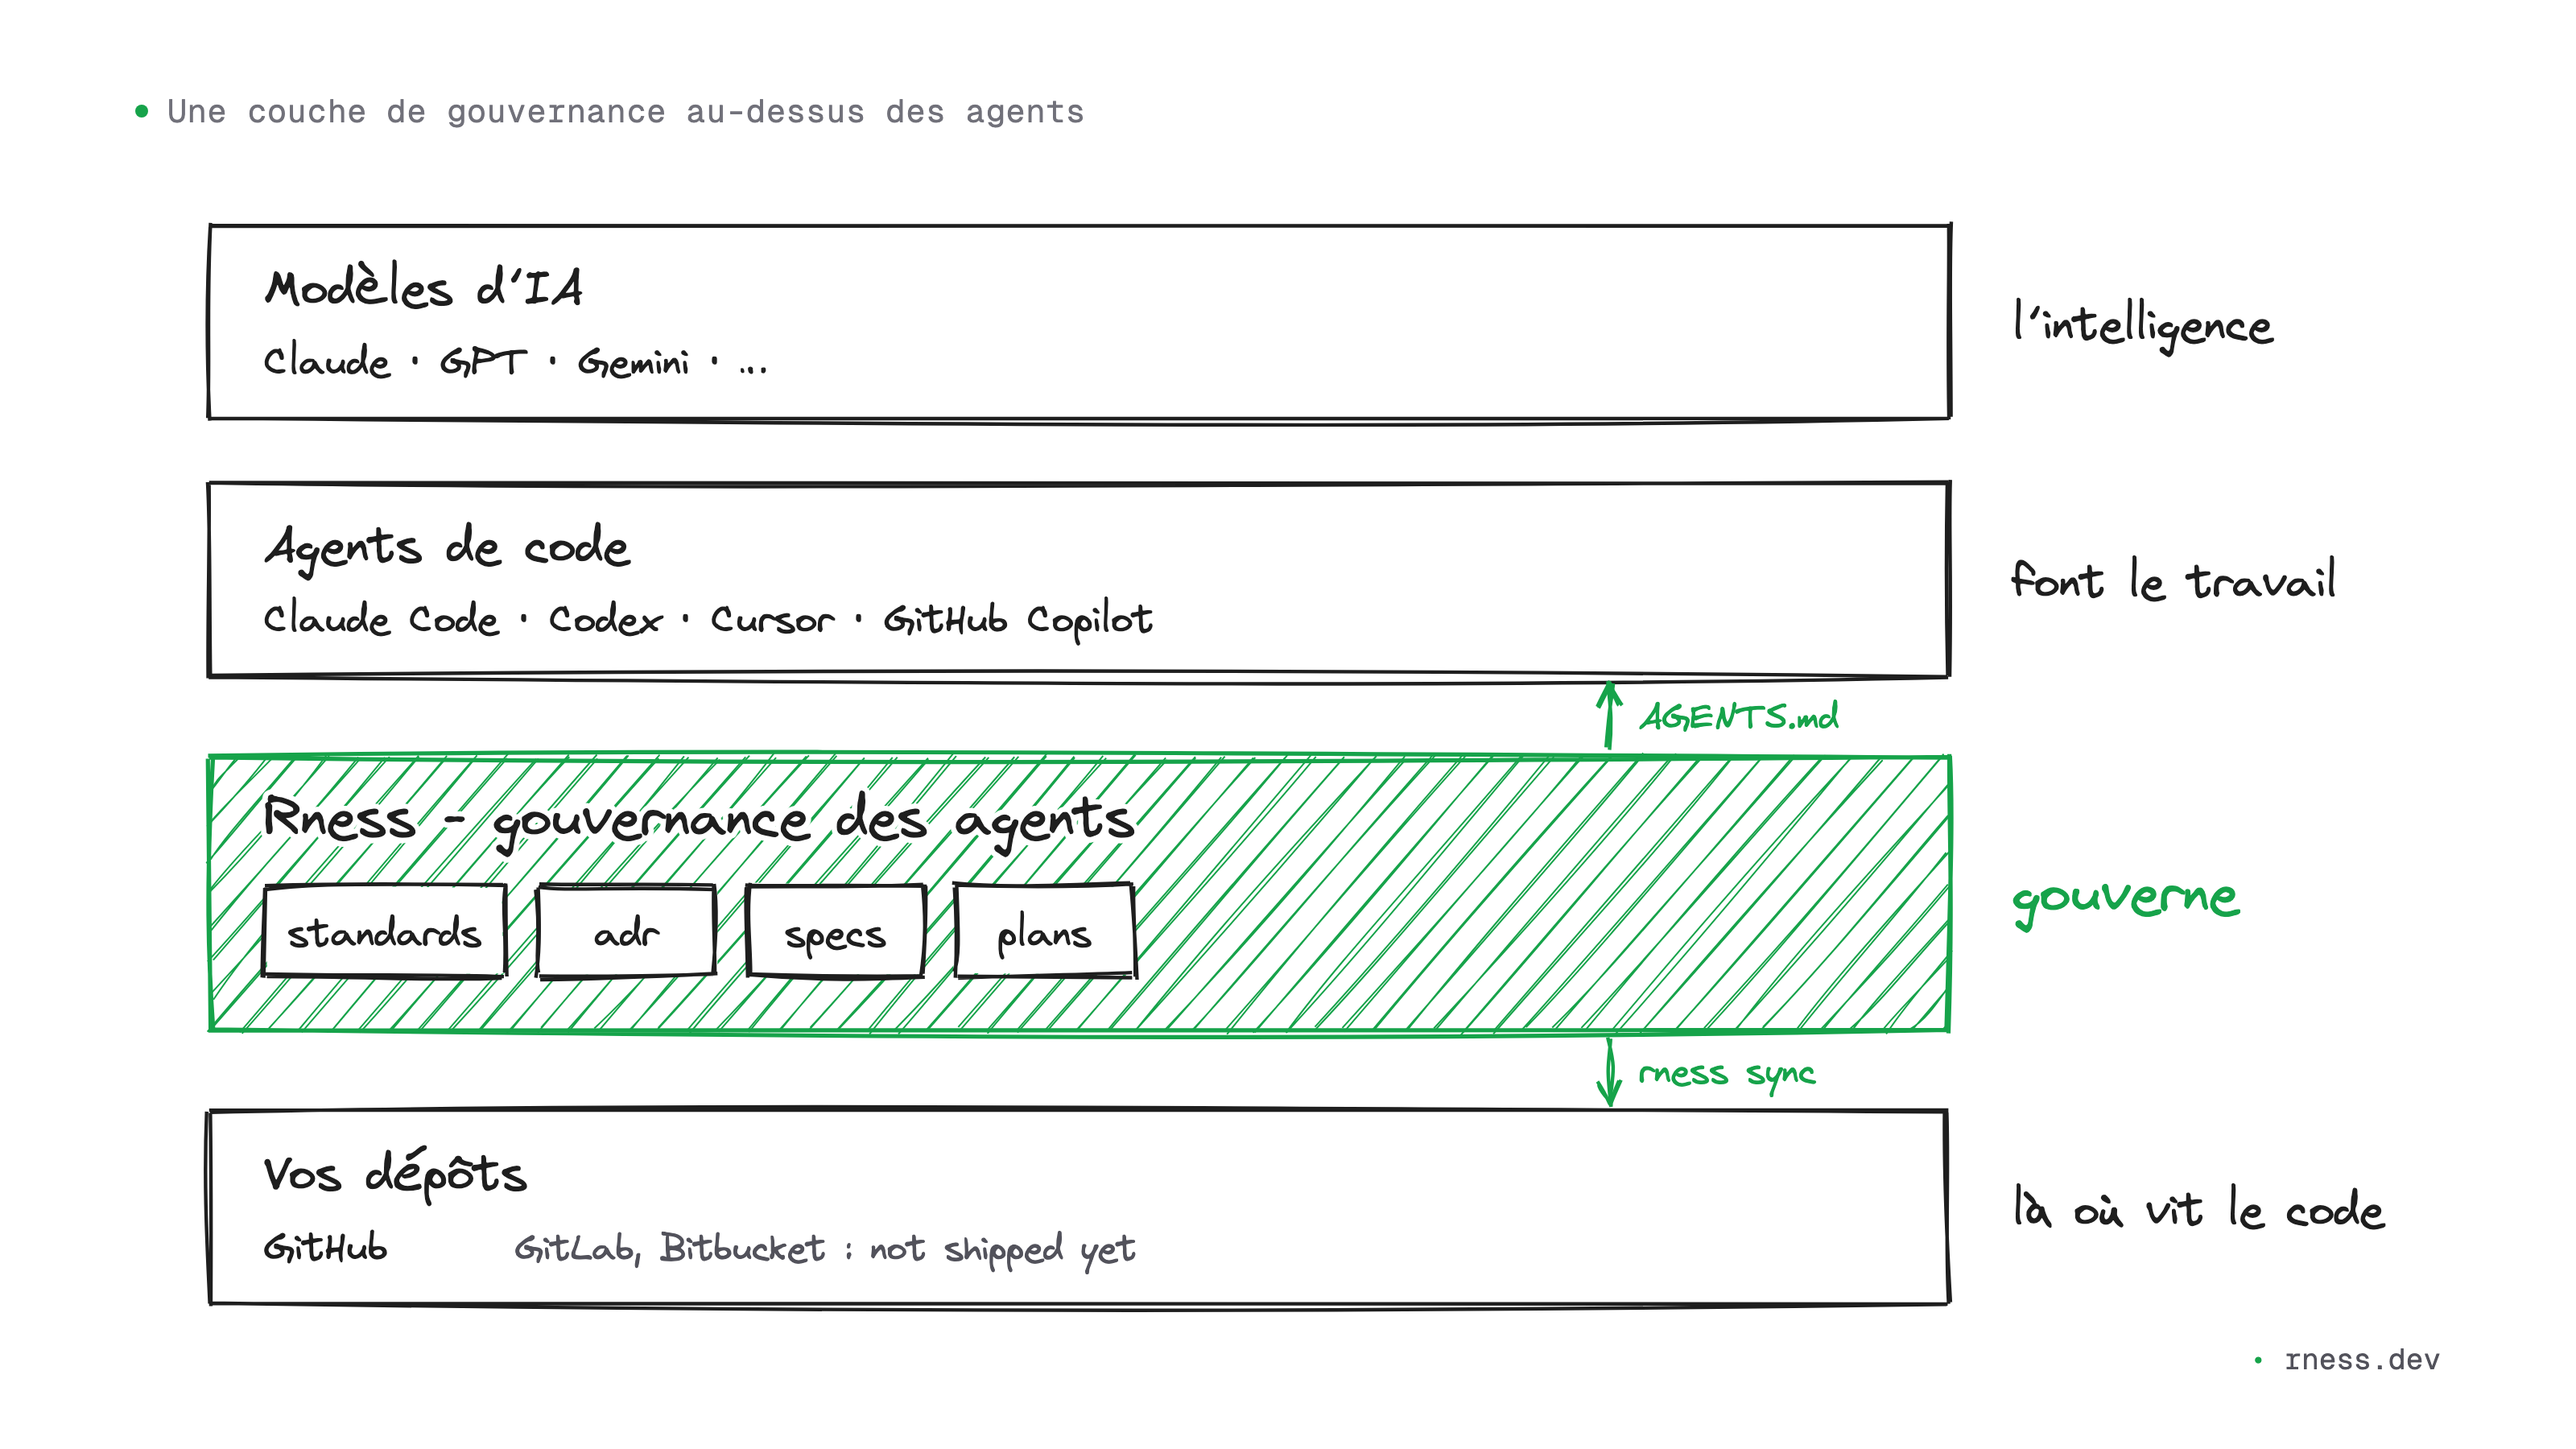
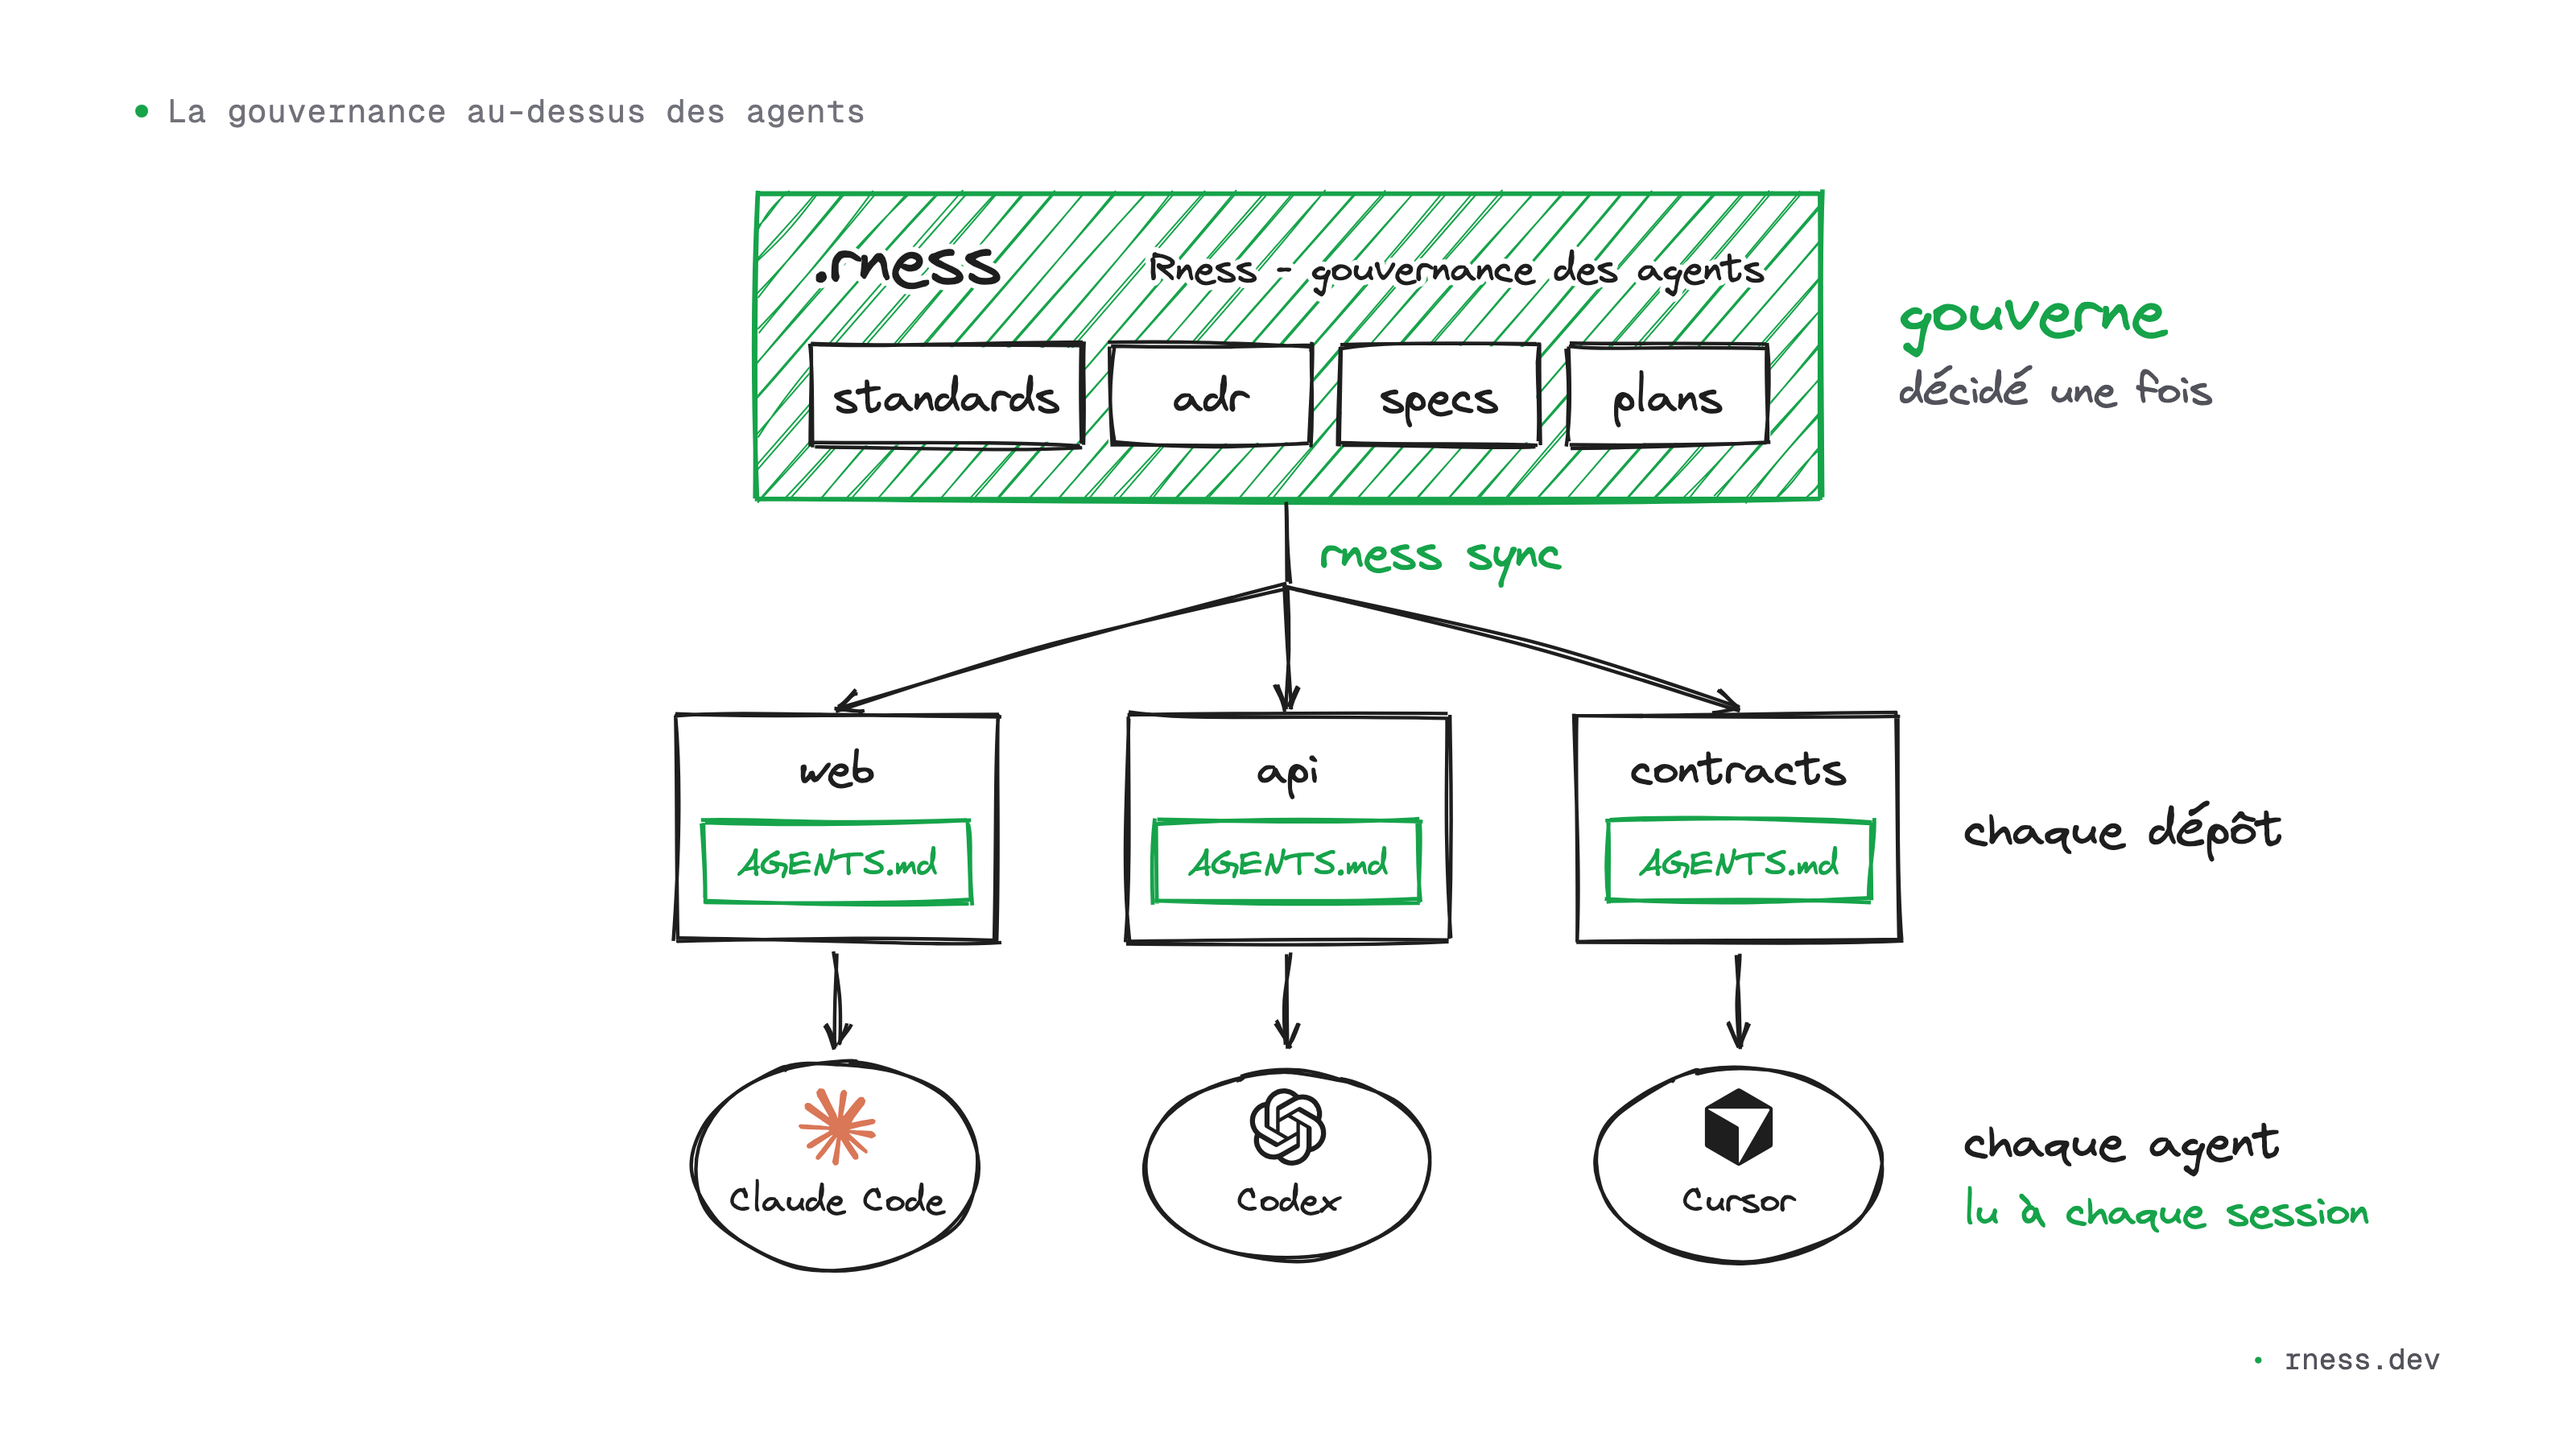
docs: the governance figure with Rness on top

diff --git a/articles/gouverner-les-agents-de-code.md b/articles/gouverner-les-agents-de-code.md
@@ -10,7 +10,7 @@ Je code avec des agents tous les jours : Claude Code la plupart du temps, Codex
 
 J'ai écrit Rness pour gouverner ces agents depuis un seul endroit. C'est un outil libre, sous licence MIT, qui ne fait tourner aucun modèle : il lit du Markdown et écrit du Markdown, dans vos dépôts. Voici comment il marche, ce qu'il fait déjà chez moi, et où il va.
 
-![Quatre couches : les modèles d'IA ; les agents de code (Claude Code, Codex, Cursor, GitHub Copilot) ; Rness, avec ses standards, ADR, specs et plans ; vos dépôts sur GitHub. Rness atteint les agents par AGENTS.md et les dépôts par rness sync.](./img/couche-de-gouvernance.png)
+![Rness en haut : .rness porte les standards, ADR, specs et plans, décidés une fois. rness sync les écrit dans le AGENTS.md de chaque dépôt, et chaque agent (Claude Code, Codex, Cursor) lit ce fichier à chaque session.](./img/couche-de-gouvernance.png)
 
 ## Un agent ne connaît que le fichier qu'il a sous les yeux
 
